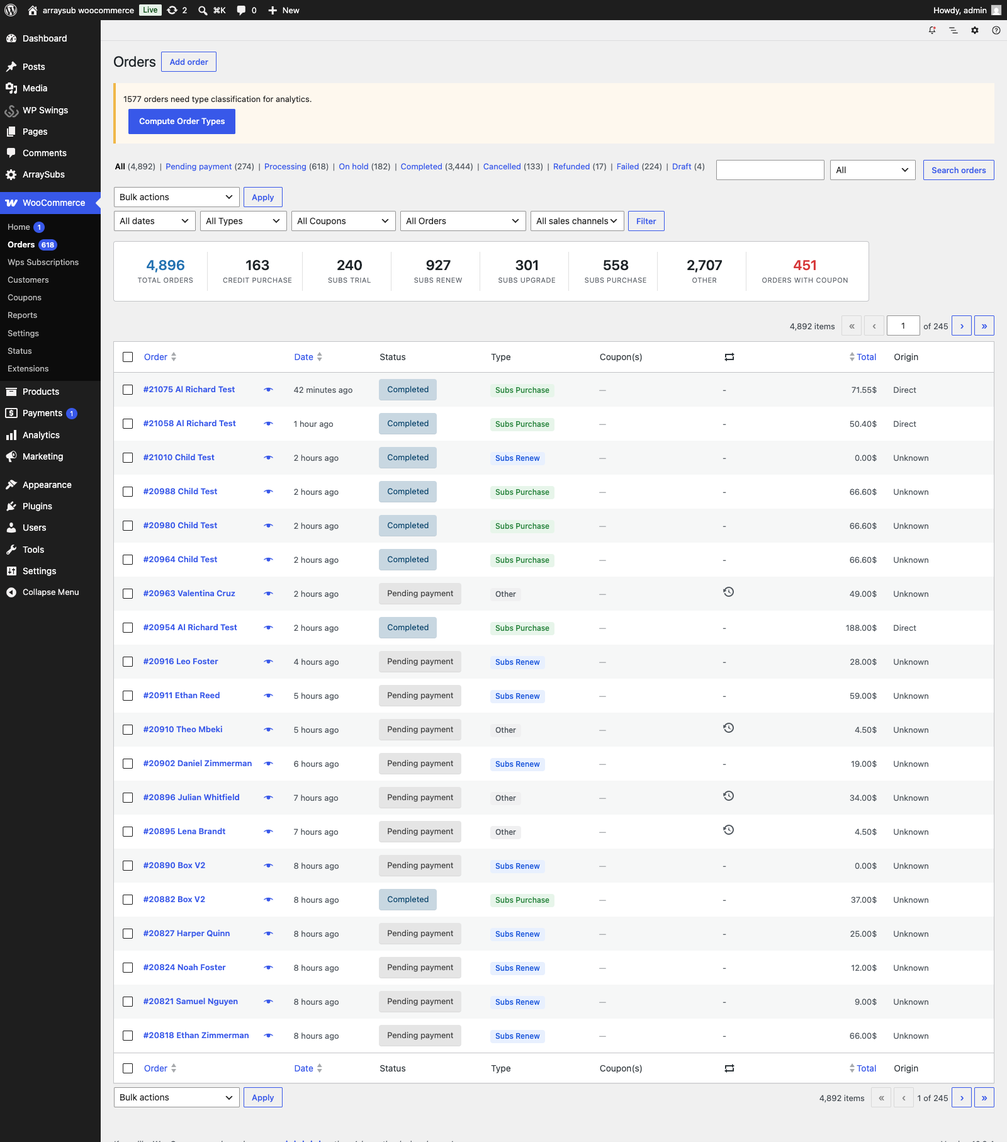
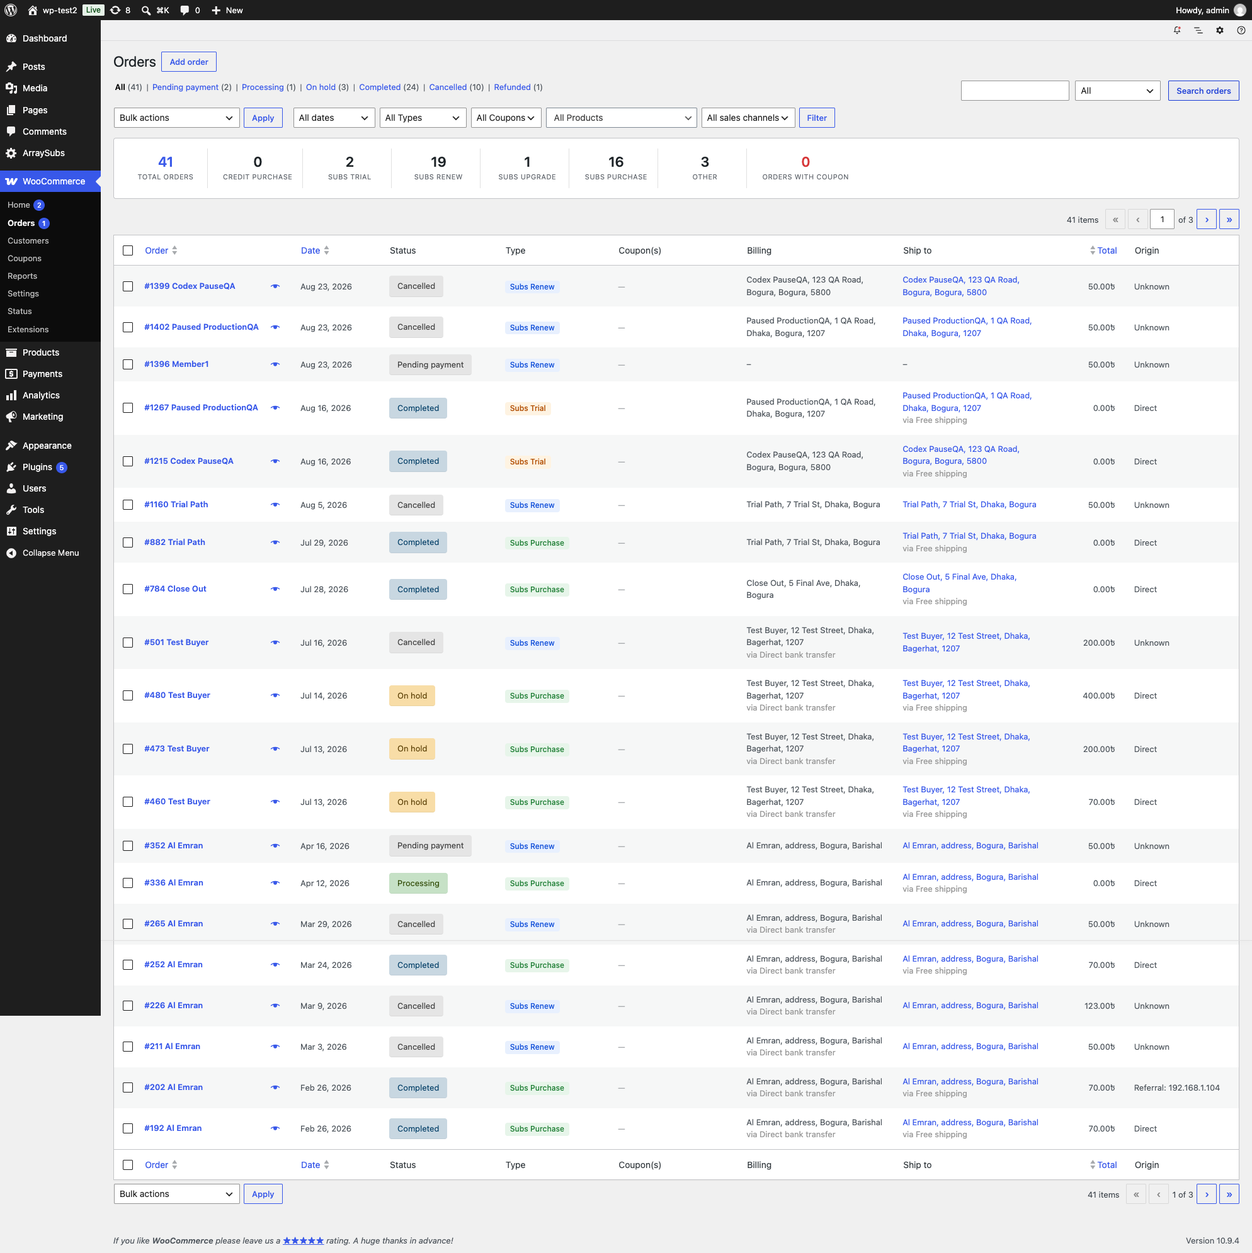
chore: sync local changes

diff --git a/markdowns/analytics/order-list-enhancements.md b/markdowns/analytics/order-list-enhancements.md
@@ -1,11 +1,11 @@
 # Info
 - Module: Order List Enhancements
 - Availability: Pro
-- Last updated: 2026-07-27
+- Last updated: 2026-08-31
 
 # Order List Enhancements *(Pro)*
 
-> See subscription order types and coupons at a glance on the WooCommerce Orders page, filter orders by type or coupon, and view an embedded summary panel — plus back-classify orders that existed before activation.
+> See subscription order types and coupons at a glance on the WooCommerce Orders page, filter orders by type, coupon, or any store product, and view an embedded summary panel — plus back-classify orders that existed before activation.
 
 **Availability:** Pro
 
@@ -23,19 +23,21 @@
 The Order List Enhancements add four capabilities to the standard **WooCommerce → Orders** page:
 
 1. **Two new columns** — Order Type and Coupons.
-2. **Three filter dropdowns** — Type, Coupon, and Subscription Products Only.
+2. **Three order filters** — Type, Coupon, and an AJAX-searchable Product filter with a Subscription Products Only shortcut.
 3. **An embedded report panel** — A summary bar showing order counts by type.
 4. **A backfill tool** — A one-click mechanism to classify orders created before the Pro plugin was activated.
 
 These enhancements work with both **HPOS** (Custom Orders Table) and **legacy post-type** order storage.
 
-![WooCommerce Orders list with subscription order enhancements](order-list-enhancements.ASSETS/01-order-list-overview-annotated.png)
+![WooCommerce Orders list with subscription order enhancements](order-list-enhancements.ASSETS/01-order-list-overview-original.png)
 
 ## When to Use This
 
 - Quickly identify which orders on the list are renewals, upgrades, trials, or credit purchases.
 - Filter the orders list to show only renewal orders during a billing investigation.
 - Check which orders used a specific coupon code.
+- Search for any product or variation in the store and show only orders containing it.
+- Show every order containing a subscription product without choosing products one at a time.
 - See a quick count-by-type summary without leaving the Orders page.
 - Back-classify historical orders after first activating the Pro plugin.
 
@@ -64,15 +66,15 @@ A **Coupon(s)** column shows the coupon codes applied to each order. If multiple
 
 ---
 
-## Filter Dropdowns
+## Order Filters
 
-Three filter dropdowns appear above the orders table.
+Three ArraySubs Pro filters appear above the orders table. Click **Filter** after making one or more selections.
 
 ### Type Filter
 
 A dropdown that filters orders by their computed type. Selecting a type and clicking **Filter** shows only orders matching that classification.
 
-![The orders list filtered to Subs Renew orders](order-list-enhancements.ASSETS/04-order-list-type-filter-applied-annotated.png)
+![The orders list filtered to Subs Renew orders](order-list-enhancements.ASSETS/05-order-list-type-filter-applied-original.png)
 
 | Option | Shows |
 |--------|-------|
@@ -90,14 +92,31 @@ A dropdown populated with every coupon code used across your orders. Select a co
 
 The coupon list is dynamically built from actual order data, so only coupons that have been applied to at least one order appear.
 
-![Coupon and subscription filters on the orders list](order-list-enhancements.ASSETS/02-coupon-subscription-filter-annotated.png)
+### Product Filter
 
-### Subscription Products Only
+The **All Products** field is an AJAX-searchable product selector. It loads matching products and variations from WooCommerce as you type instead of preloading the store's full catalog.
 
-A checkbox or toggle that, when enabled, shows only orders containing at least one subscription product. This is useful for separating subscription-related orders from regular product orders when you don't need to filter by a specific type.
+To filter by a specific product:
+
+1. Click **All Products**.
+2. Enter part of the product name.
+3. Select the matching product or variation from the results.
+4. Click **Filter**.
+
+![Searching the store catalog from the Orders product filter](order-list-enhancements.ASSETS/02-product-search-results-original.png)
+
+The selected product remains visible in the filter row. The order table, item count, pagination, and embedded report panel all recalculate for orders containing that exact product.
+
+![Orders filtered to one selected product](order-list-enhancements.ASSETS/03-product-filter-applied-original.png)
+
+#### Subscription Products Only
+
+Open **All Products** and choose **Subscription Products Only** to show every order containing at least one subscription product. This shortcut appears immediately, before you type a search term, and avoids selecting subscription products individually.
+
+![Orders filtered to all subscription products](order-list-enhancements.ASSETS/04-subscription-products-only-original.png)
 
 ```box class="info-box"
-The three filters can be combined. For example, you can filter by Type = `Subs Renew` and Coupon = `SAVE20` to find all renewal orders that used a specific discount code.
+The filters can be combined. For example, choose Type = `Subs Renew`, select a product, and choose a coupon to find renewal orders for that product that used the discount code.
 ```
 
 ---
@@ -112,7 +131,7 @@ A summary panel appears above the orders table showing aggregate counts for the 
 | **Per-type counts** | Individual count for each order type (Subs Purchase, Subs Renew, Subs Trial, Subs Upgrade, Credit Purchase, Other) |
 | **Orders with Coupon** | Number of orders in the current view that have at least one coupon applied |
 
-The panel updates dynamically as you apply or remove filters, change the order status tab, or adjust the date range. The screenshot under [Coupon Filter](#coupon-filter) shows it recalculated for a coupon-filtered view.
+The panel updates as you apply or remove filters, change the order status tab, or adjust the date range. The product-filter screenshots above show the total and per-type counts recalculated for the selected product and for all subscription products.
 
 ---
 
@@ -124,13 +143,12 @@ Orders created before the Pro plugin was activated do not have the computed type
 
 1. Navigate to **WooCommerce → Orders**.
 2. If unclassified orders exist, an **admin notice** appears at the top of the page stating how many orders need type classification.
-
-   ![The admin notice prompting the order type backfill](order-list-enhancements.ASSETS/03-backfill-notice-annotated.png)
-
 3. Click the **Compute Order Types** button in the notice.
 4. The system processes orders in batches of **200 per request**.
-5. A progress indicator shows how many orders have been processed.
-6. When all orders are classified, the notice is replaced by a completion message confirming the total count, and it stops appearing on future visits.
+5. A progress notice shows how many orders have been processed and how many remain.
+6. When all orders are classified, the notice is replaced by a completion message, and the backfill prompt stops appearing on future visits.
+
+![The successful order type backfill completion notice](order-list-enhancements.ASSETS/06-backfill-complete-notice-original.png)
 
 ### What the Backfill Does
 
@@ -169,6 +187,10 @@ A marketing manager wants to know how a promotional coupon performed across subs
 
 A store owner wants a daily snapshot of their order mix. They open the Orders page and scan the report panel at the top: 45 total orders today — 12 renewals, 8 new subscriptions, 2 upgrades, 1 credit purchase, 22 other. No filters needed.
 
+### Reviewing Orders for One Product
+
+A product manager wants to review every order containing a particular plan or variation. They open **All Products**, search by name, choose the exact result, and click **Filter**. The table and report panel now describe only that product's orders.
+
 ---
 
 ## Edge Cases and Important Notes
@@ -177,6 +199,8 @@ A store owner wants a daily snapshot of their order mix. They open the Orders pa
 - **Type classification is automatic for new orders.** After activation, every new order is classified immediately at creation, checkout, and payment. No manual action is required for future orders.
 - **Filters apply to the current WooCommerce order query.** If you are viewing a specific order status tab (e.g., Processing), the Type filter and report panel reflect only that status subset.
 - **Coupon dropdown is cached.** The list of available coupons is cached using `wp_cache_set()` for performance. If a coupon was just used for the first time, refresh the page to see it in the dropdown.
+- **Product search is loaded on demand.** The selector requests up to 30 matching products and variations as you type; it does not load the entire catalog into the Orders page.
+- **Product filtering checks order line items.** Selecting a product or variation returns orders containing that item and keeps the WooCommerce item count and pagination aligned with the filtered rows.
 - **Both HPOS and legacy storage are supported automatically.** The enhancement detects your store's storage mode and adjusts column rendering, filter queries, and backfill logic accordingly.
 
 ---

diff --git a/kanban/tasks/003-analytics-readme-md.md b/kanban/tasks/003-analytics-readme-md.md
@@ -4,60 +4,54 @@ title: analytics - README.md
 status: done
 priority: medium
 created: 2026-06-09T18:08:34.394907+06:00
-updated: 2026-06-23T18:04:09.983244+06:00
+updated: 2026-08-31T16:52:53.232255+06:00
 started: 2026-06-17T17:35:49.69654+06:00
-completed: 2026-06-23T18:04:09.983243+06:00
-claimed_by: hobbler-beswitch
-claimed_at: 2026-06-23T18:04:09.983244+06:00
+completed: 2026-08-31T16:52:53.232254+06:00
 class: standard
 ---
 
-1. `01-reports-hub-overview`
-Placement: after `## Overview`
+1. 01-reports-hub-overview
+Placement: after ## Overview
 Surface to cover: ArraySubs -> Reports hub.
-context: The Reports hub shows the analytics directory summary, quick navigation, and report category counts for the central free reporting surface.
+Context: The Reports hub shows the analytics directory summary, quick navigation, and report category counts for the central free reporting surface.
 Markers:
-- `arrow pointing to the Reports page heading, label 'Reports Hub'`
-- `arrow pointing to the report category count row, label 'Report coverage'`
-- `arrow pointing to the Quick Navigation section, label 'Analytics surfaces'`
+- arrow pointing to the Reports page heading, label Reports Hub
+- arrow pointing to the report category count row, label Report coverage
+- arrow pointing to the Quick Navigation section, label Analytics surfaces
 
-2. `02-subscription-performance-overview`
+2. 02-subscription-performance-overview
 Placement: after the analytics ecosystem surfaces table.
 Surface to cover: WooCommerce -> Analytics -> Overview with ArraySubs Pro performance cards.
-context: The full-page WooCommerce Analytics Overview frame shows subscription KPI cards, sales charts, subscription trend chart, product/customer leaderboards, cancellation reasons, and churn product tables.
+Context: The full-page WooCommerce Analytics Overview frame shows subscription KPI cards, sales charts, subscription trend chart, product or customer leaderboards, cancellation reasons, and churn product tables.
 Markers:
-- `arrow pointing to the Performance section heading, label 'Performance dashboard'`
-- `arrow pointing to the Active Subscriptions card, label 'Subscription KPI'`
-- `arrow pointing to the Monthly Recurring Revenue card, label 'MRR'`
-- `arrow pointing to the subscription trend chart, label 'Subscription trend'`
-- `arrow pointing to the lower leaderboard tables, label 'Subscription breakdowns'`
+- arrow pointing to the Performance section heading, label Performance dashboard
+- arrow pointing to the Active Subscriptions card, label Subscription KPI
+- arrow pointing to the Monthly Recurring Revenue card, label MRR
+- arrow pointing to the subscription trend chart, label Subscription trend
+- arrow pointing to the lower leaderboard tables, label Subscription breakdowns
 
-3. `03-retention-analytics-overview`
+3. 03-retention-analytics-overview
 Placement: after the Retention Analytics row in the surfaces table.
 Surface to cover: WooCommerce -> Analytics -> Retention.
-context: The full-page Retention analytics frame shows date filters, product filter, cancellation KPIs, reason and offer charts, cancellation trends, and the activity log table.
+Context: The full-page Retention analytics frame shows date filters, product filter, cancellation KPIs, reason and offer charts, cancellation trends, and the activity log table.
 Markers:
-- `arrow pointing to the Retention page heading, label 'Retention analytics'`
-- `arrow pointing to the date and product filters, label 'Report filters'`
-- `arrow pointing to the Churn Rate summary card, label 'Retention KPI'`
-- `arrow pointing to the Cancellation Reasons chart, label 'Reason breakdown'`
-- `arrow pointing to the Cancellation Trends chart, label 'Trend history'`
-- `arrow pointing to the Activity Log table, label 'Cancellation events'`
+- arrow pointing to the Retention page heading, label Retention analytics
+- arrow pointing to the date and product filters, label Report filters
+- arrow pointing to the Churn Rate summary card, label Retention KPI
+- arrow pointing to the Cancellation Reasons chart, label Reason breakdown
+- arrow pointing to the Cancellation Trends chart, label Trend history
+- arrow pointing to the Activity Log table, label Cancellation events
 
-4. `04-order-type-classification`
-Placement: after `## Order Type Classification`
-Surface to cover: WooCommerce Orders list with ArraySubs order type filters and summary panel.
-context: The full-page WooCommerce Orders frame shows the type filter, subscription order type totals, coupon count, Type column, and the order rows that use the stored classification.
-Markers:
-- `arrow pointing to the All Types dropdown, label 'Type filter'`
-- `arrow pointing to the Subs Renew total in the summary panel, label 'Order type totals'`
-- `arrow pointing to the Type column header in the orders table, label 'Stored classification'`
-- `arrow pointing to a Subs Renew row badge, label 'Classified order'`
+4. 01-order-list-overview
+Placement: after ## Order Type Classification
+Surface to cover: WooCommerce Orders with ArraySubs order types, the AJAX product selector, and the summary panel.
+Capture scope: full page.
+Context: The clean unfiltered Orders frame shows All Types, All Coupons, All Products, the order-type totals, Type and Coupon(s) columns, and classified order rows.
+Markers: None (clean original requested).
+Dedupe: Reuses order-list-enhancements.ASSETS/01-order-list-overview-original.png from the dedicated Order List Enhancements guide.
 
-
-
-Annotation notes (2026-06-23):
-- Reprocessed all four Analytics README screenshots as annotated variants with #873EFF, crop enabled, and steps=3.
-- Used essential labels only: two labels per image.
-- Generated README.ASSETS/01-reports-hub-overview-annotated.png, 02-subscription-performance-overview-annotated.png, 03-retention-analytics-overview-annotated.png, and 04-order-type-classification-annotated.png.
-- Verification: 8 labels resolved, 0 unresolved.
+Refresh notes (2026-08-31):
+- Updated the Analytics overview copy for AJAX product or variation search and the Subscription Products Only shortcut.
+- Replaced the old annotated Orders image reference with the verified clean overview original from the dedicated guide.
+- No new marker or annotated variant was created, per user request.
+- The three non-Orders Analytics screenshots and their historical annotation notes remain unchanged.

diff --git a/kanban/tasks/004-analytics-order-list-enhancements-md.md b/kanban/tasks/004-analytics-order-list-enhancements-md.md
@@ -4,50 +4,56 @@ title: analytics - order-list-enhancements.md
 status: done
 priority: medium
 created: 2026-06-09T18:08:34.403705+06:00
-updated: 2026-06-23T18:08:39.130173+06:00
+updated: 2026-08-31T16:51:08.291124+06:00
 started: 2026-06-17T17:36:53.256912+06:00
-completed: 2026-06-23T18:08:39.130173+06:00
-claimed_by: hobbler-beswitch
-claimed_at: 2026-06-23T18:08:39.130173+06:00
+completed: 2026-08-31T16:51:08.291123+06:00
 class: standard
 ---
 
-1. `01-order-list-overview`
-Placement: after `## Overview`
+1. 01-order-list-overview
+Placement: after ## Overview
 Surface to cover: WooCommerce -> Orders with ArraySubs Pro order list enhancements.
-context: The full-page Orders frame shows the added All Types, All Coupons, and All Orders filters, the embedded order-type summary panel, the Type and Coupon(s) columns, and classified order rows below the fold.
-Markers:
-- `arrow pointing to the All Types dropdown, label 'Type filter'`
-- `arrow pointing to the All Coupons dropdown, label 'Coupon filter'`
-- `arrow pointing to the All Orders dropdown, label 'Subscription product filter'`
-- `arrow pointing to the summary panel counts, label 'Order mix summary'`
-- `arrow pointing to the Type column badge, label 'Computed type'`
-- `arrow pointing to the Coupon(s) column, label 'Coupon visibility'`
+Capture scope: full page.
+Context: The unfiltered Orders page shows All Types, All Coupons, the new All Products search field, the left-aligned summary panel, Type and Coupon(s) columns, and classified order rows.
+Markers: None (clean originals requested).
 
-2. `02-coupon-subscription-filter`
-Placement: after `### Coupon Filter`
-Surface to cover: WooCommerce Orders with coupon and subscription-products filters applied.
-context: The Orders page is filtered to coupon `save20` and Subscription Products Only; the summary panel shows one matching renewal order and the table row displays the coupon and type badge.
-Markers:
-- `arrow pointing to the selected save20 coupon dropdown, label 'Coupon selected'`
-- `arrow pointing to the selected Subscription Products Only dropdown, label 'Subscription-only view'`
-- `arrow pointing to the Total Orders count of 1, label 'Filtered result count'`
-- `arrow pointing to the save20 row cell, label 'Applied coupon'`
-- `arrow pointing to the Subs Renew row badge, label 'Matching order type'`
+2. 02-product-search-results
+Placement: after ### Product Filter
+Surface to cover: WooCommerce Orders with the AJAX product selector open.
+Capture scope: viewport.
+Context: Searching for test loads matching products and variations on demand while Subscription Products Only remains available before searching.
+Markers: None (clean originals requested).
 
-3. `03-backfill-complete-notice`
-Placement: after `## Order Type Backfill`
-Surface to cover: WooCommerce Orders backfill status notice.
-context: The live staging store currently has no unclassified orders, so the real backfill surface available for capture is the completion notice: All order types have been computed successfully.
-Markers:
-- `arrow pointing to the green success notice, label 'Backfill complete'`
-- `arrow pointing to the Compute Order Types area location above the filters, label 'Notice appears here when needed'`
-- `arrow pointing to the Type column below, label 'Classified orders'`
+3. 03-product-filter-applied
+Placement: after the selected-product explanation in ### Product Filter
+Surface to cover: WooCommerce Orders filtered to test normal product (#201).
+Capture scope: full page.
+Context: The selected product remains in the filter and the table, item count, and summary panel recalculate to the two matching orders.
+Markers: None (clean originals requested).
 
+4. 04-subscription-products-only
+Placement: after #### Subscription Products Only
+Surface to cover: WooCommerce Orders filtered to Subscription Products Only.
+Capture scope: full page.
+Context: The shortcut is selected and the Orders list plus summary panel recalculate to the 36 orders containing subscription products.
+Markers: None (clean originals requested).
 
+5. 05-order-list-type-filter-applied
+Placement: after ### Type Filter
+Surface to cover: WooCommerce Orders filtered to Subs Renew.
+Capture scope: full page.
+Context: The Type selector, summary panel, item count, and order badges all show the 19 matching renewal orders.
+Markers: None (clean originals requested).
 
-Annotation notes (2026-06-23):
-- Reprocessed all three order-list enhancement screenshots as annotated variants with #873EFF, crop enabled, and steps=3.
-- Used essential labels only: two labels per image.
-- Generated order-list-enhancements.ASSETS/01-order-list-overview-annotated.png, 02-coupon-subscription-filter-annotated.png, and 03-backfill-complete-notice-annotated.png.
-- Verification: 6 labels resolved, 0 unresolved.
+6. 06-backfill-complete-notice
+Placement: after ### How to Run the Backfill
+Surface to cover: WooCommerce Orders backfill completion state.
+Capture scope: viewport.
+Context: The clean Orders page shows the successful classification notice above the current filters, summary panel, and classified rows.
+Markers: None (clean originals requested).
+
+Refresh notes (2026-08-31):
+- Replaced the stale All Orders dropdown or toggle documentation with the AJAX-searchable All Products workflow.
+- Documented exact-product filtering, the immediate Subscription Products Only shortcut, and filtered count or report behavior.
+- Captured and visually verified all six clean original screenshots twice.
+- No annotated or marker variants were created, per user request.

diff --git a/markdowns/analytics/README.md b/markdowns/analytics/README.md
@@ -1,7 +1,7 @@
 # Info
 - Module: Analytics & Reports
 - Availability: Shared (Free + Pro)
-- Last updated: 2026-07-27
+- Last updated: 2026-08-31
 
 # Analytics & Reports
 
@@ -36,7 +36,7 @@ The analytics ecosystem has seven major surfaces:
 | [AI Churn Analysis](ai-churn-analysis.md) | WooCommerce → Analytics → Churn Analysis | Free | Per-subscriber churn risk scores and bands, revenue at risk, AI reasons and recommended actions |
 | [AI Revenue Forecast](ai-revenue-forecast.md) | WooCommerce → Analytics → Revenue Forecast | Free | MRR/ARR snapshot, 12 months of collected revenue, subscriber movement, billing mix, AI projection |
 | [WooCommerce Analytics Extension](woocommerce-analytics-extension.md) | WooCommerce → Analytics → Orders / Revenue / Products / Variations / Customers | Pro | Type column, type filters, subscription revenue cards, subscription-only filters, member links |
-| [Order List Enhancements](order-list-enhancements.md) | WooCommerce → Orders | Pro | Type and coupon columns, filter dropdowns, embedded report panel, order type backfill |
+| [Order List Enhancements](order-list-enhancements.md) | WooCommerce → Orders | Pro | Type and coupon columns, type/coupon filters, AJAX product search, subscription-only shortcut, embedded report panel, order type backfill |
 
 ![Reports Hub overview](README.ASSETS/01-reports-hub-overview-annotated.png)
 
@@ -64,7 +64,7 @@ The Pro analytics surfaces share a unified **order type classification system** 
 
 Every order that passes through the store is automatically classified into one of six types. This classification powers the filters, columns, and metrics across all analytics surfaces.
 
-![Order type classification on the orders screen](README.ASSETS/04-order-type-classification-annotated.png)
+![Order type classification and product filtering on the orders screen](order-list-enhancements.ASSETS/01-order-list-overview-original.png)
 
 ## Page Navigation
 
@@ -86,7 +86,7 @@ Every order that passes through the store is automatically classified into one o
 
 Types are resolved in **priority order** — if an order qualifies as both a credit purchase and a subscription order, `Credit Purchase` wins.
 
-The classification is stored as order meta (`_arraysubs_computed_type`) and recomputed whenever an order is created, updated, or paid. A second flag (`_arraysubs_has_subscription_product`) marks whether the order contains any subscription product, regardless of type.
+The classification is stored as order meta (`_arraysubs_computed_type`) and recomputed whenever an order is created, updated, or paid. A second flag (`_arraysubs_has_subscription_product`) marks whether the order contains any subscription product, regardless of type. On the WooCommerce Orders page, the searchable **All Products** control can filter by any product or variation, while **Subscription Products Only** uses that flag to select the entire subscription-product group at once.
 
 ```box class="info-box"
 The **Subs Trial** classification is permanent. Even after a trial converts to an active paid subscription, the original order keeps its Subs Trial label because it uses the immutable `_trial_end_date` meta rather than the subscription's current status.
@@ -108,7 +108,7 @@ The **Subs Trial** classification is permanent. Even after a trial converts to a
 - [AI Churn Analysis](ai-churn-analysis.md) — Per-subscriber churn risk scoring, revenue at risk, and AI-written reasons and next steps.
 - [AI Revenue Forecast](ai-revenue-forecast.md) — MRR and ARR measurement, revenue and subscriber history, and an AI projection with a conservative-to-optimistic range.
 - [WooCommerce Analytics Extension](woocommerce-analytics-extension.md) *(Pro)* — How the Orders, Revenue, Products, Variations, and Customers reports gain subscription data.
-- [Order List Enhancements](order-list-enhancements.md) *(Pro)* — Columns, filters, and the summary panel on the WooCommerce Orders page.
+- [Order List Enhancements](order-list-enhancements.md) *(Pro)* — Columns, type/coupon filters, searchable product filtering, the subscription-only shortcut, and the summary panel on the WooCommerce Orders page.
 
 ---
 
